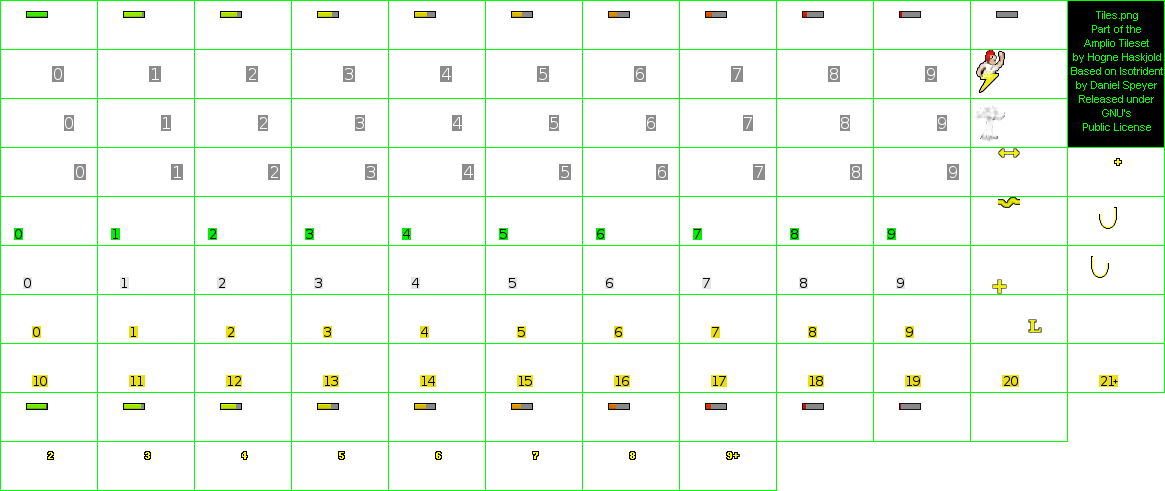
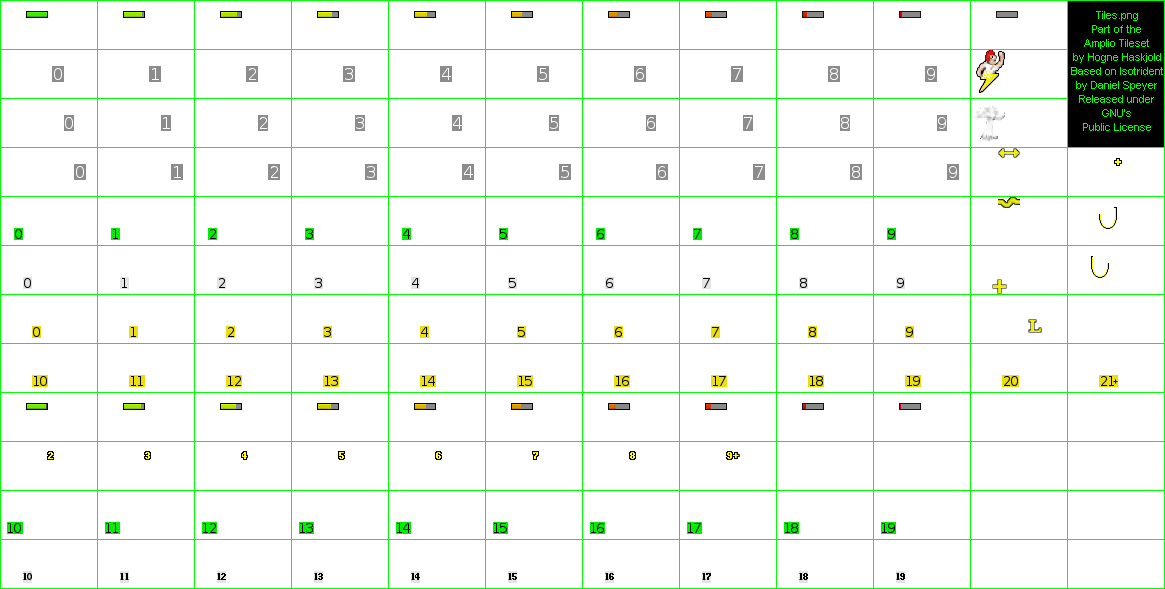
Support food and shield values of 10-19

diff --git a/freeciv/freeciv/server/citytools.c b/freeciv/freeciv/server/citytools.c
@@ -918,7 +918,7 @@ struct city *find_closest_city(const struct tile *ptile,
           && (!only_ocean || is_terrain_class_near_tile(city_tile(pcity), TC_OCEAN))
           && (!only_known
               || (map_is_known(city_tile(pcity), pplayer)
-                  && map_get_player_site(city_tile(pcity), pplayer)->identity
+                  && map_get_player_site(city_tile(pcity), pplayer)->identity   // segfault
                      > IDENTITY_NUMBER_ZERO))
           && (pclass == NULL
               || is_native_near_tile(&(wld.map), pclass, city_tile(pcity)))) {
@@ -2541,7 +2541,7 @@ void package_city(struct city *pcity, struct packet_city_info *packet,
   char trade_output_buf[MAX_NUM_ITEMS + 1];
   struct tile *pcenter = city_tile(pcity);
   int c = 0;
-  int trade_val;
+  int food_val, shield_val, trade_val;
 
   packet->id = pcity->id;
   packet->owner = player_number(city_owner(pcity));
@@ -2752,15 +2752,21 @@ void package_city(struct city *pcity, struct packet_city_info *packet,
     char s[2];
     char t[2];
 
-    fc_snprintf(f, sizeof(f), "%d", city_tile_output_now(pcity, ptile, O_FOOD));
-    fc_snprintf(s, sizeof(s), "%d", city_tile_output_now(pcity, ptile, O_SHIELD));
+    food_val = city_tile_output_now(pcity, ptile, O_FOOD);
+    fc_snprintf(f, sizeof(f), "%d", food_val);
+    shield_val = city_tile_output_now(pcity, ptile, O_SHIELD);
+    fc_snprintf(s, sizeof(s), "%d", shield_val);
     trade_val = city_tile_output_now(pcity, ptile, O_TRADE);
     fc_snprintf(t, sizeof(t), "%d", trade_val);
 
-    food_output_buf[c] = f[0];
-    shield_output_buf[c] = s[0];
-    /* Trade values can exceed one digit: 
+    /* Values can exceed one digit: 
      * convert values 10+ to letters A,B,C, etc... */
+    if (food_val>9) {
+      food_output_buf[c] = (char)(65+(food_val-10));
+    } else food_output_buf[c] = f[0];
+    if (shield_val>9) {
+      shield_output_buf[c] = (char)(65+(shield_val-10));
+    } else shield_output_buf[c] = s[0];
     if (trade_val>9) {
       trade_output_buf[c] = (char)(65+(trade_val-10));
     } else trade_output_buf[c] = t[0];
